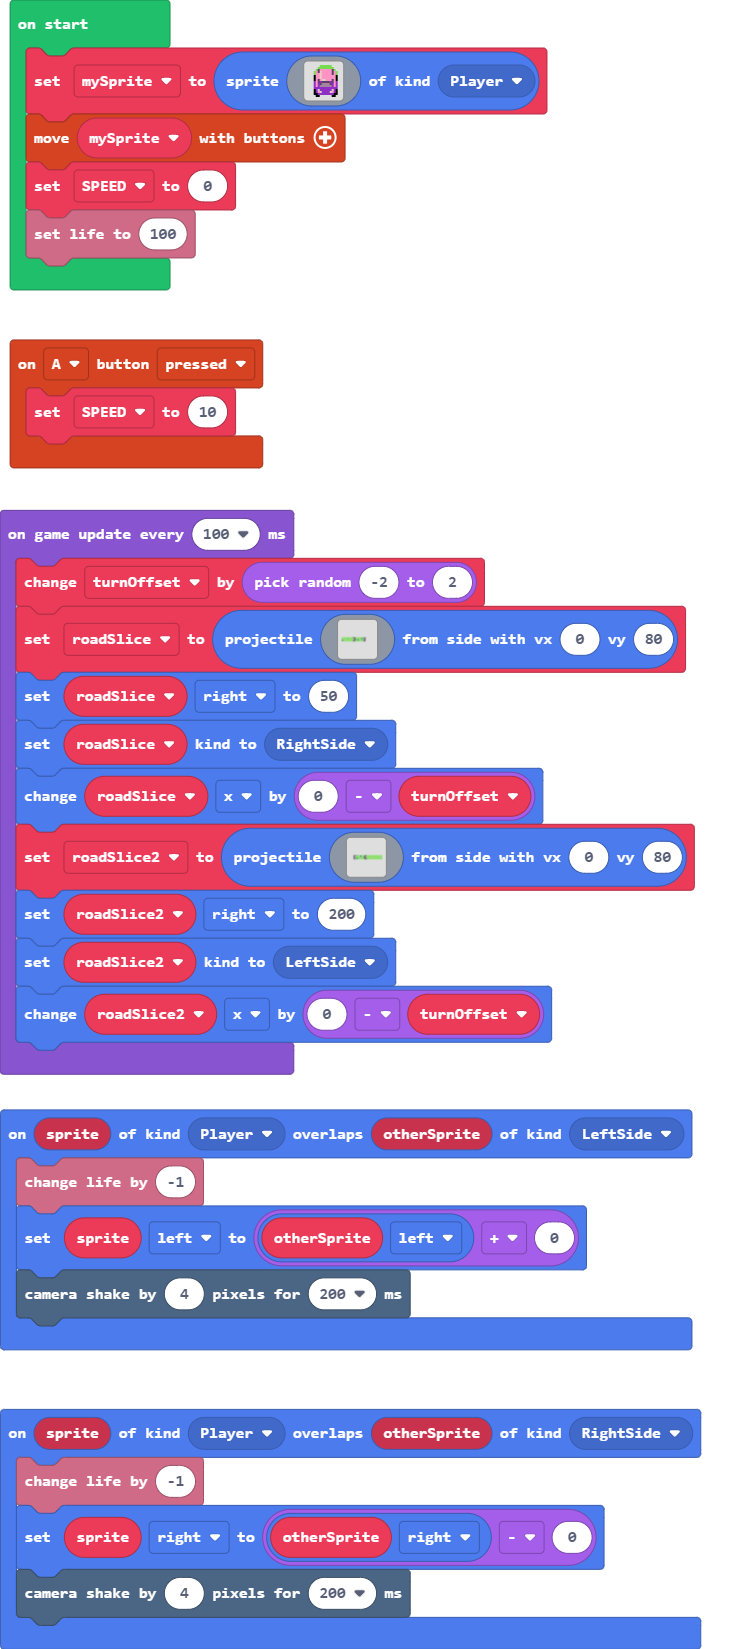
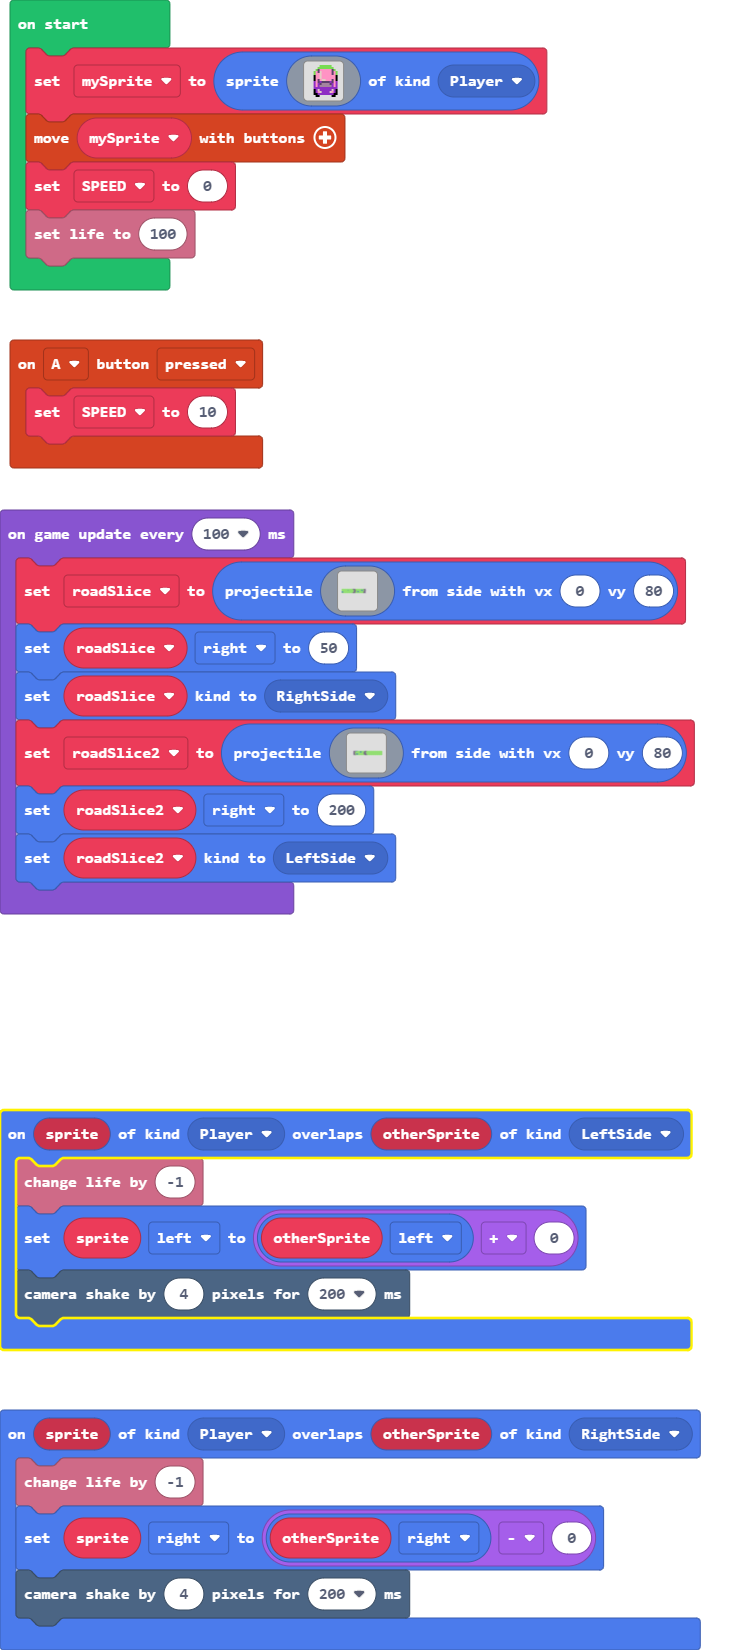
Update main.blocks, main.ts

diff --git a/main.ts b/main.ts
@@ -17,7 +17,6 @@ sprites.onOverlap(SpriteKind.Player, SpriteKind.LeftSide, function (sprite, othe
 })
 let roadSlice2: Sprite = null
 let roadSlice: Sprite = null
-let turnOffset = 0
 let SPEED = 0
 let mySprite = sprites.create(img`
     . . . . . . 7 7 7 7 7 7 . . . . 
@@ -41,7 +40,6 @@ controller.moveSprite(mySprite)
 SPEED = 0
 info.setLife(100)
 game.onUpdateInterval(100, function () {
-    turnOffset += randint(-2, 2)
     roadSlice = sprites.createProjectileFromSide(img`
         7777777777777777777777777777cccccc7777777777777777777777cccc....................
         77777777777777777777777777777cccccc777777777777777777777cccc....................
@@ -56,7 +54,6 @@ game.onUpdateInterval(100, function () {
         `, 0, 80)
     roadSlice.right = 50
     roadSlice.setKind(SpriteKind.RightSide)
-    roadSlice.x += 0 - turnOffset
     roadSlice2 = sprites.createProjectileFromSide(img`
         ........cccccc7888777777777777777777ccccc777777777777777777777777777777777777777
         ........ccccc7777777777778887777777ccccc7777777777777777777777777777777777777777
@@ -71,5 +68,4 @@ game.onUpdateInterval(100, function () {
         `, 0, 80)
     roadSlice2.right = 200
     roadSlice2.setKind(SpriteKind.LeftSide)
-    roadSlice2.x += 0 - turnOffset
 })
